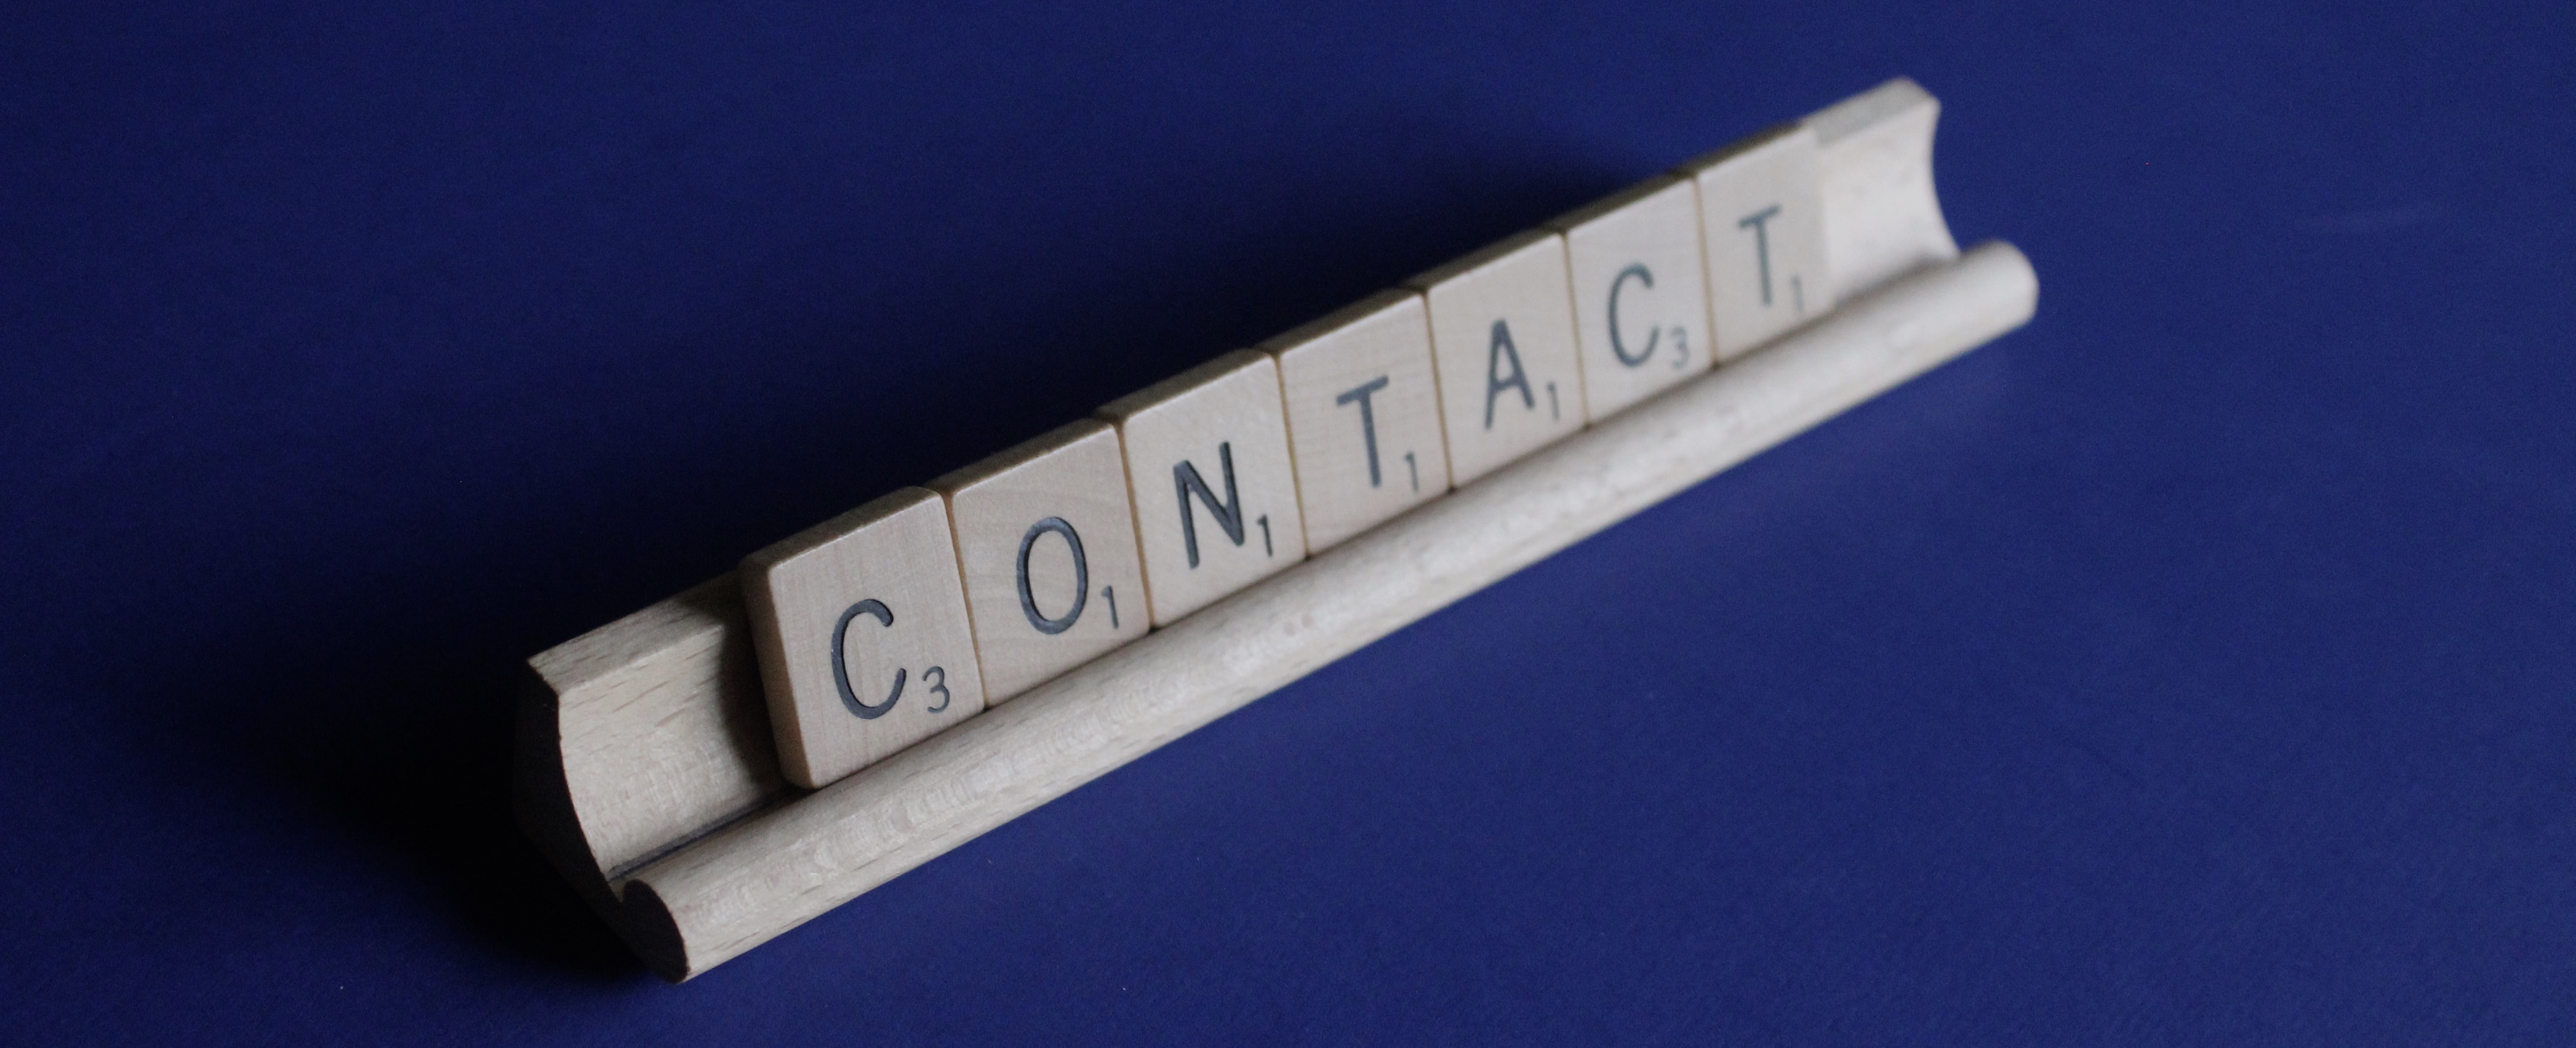
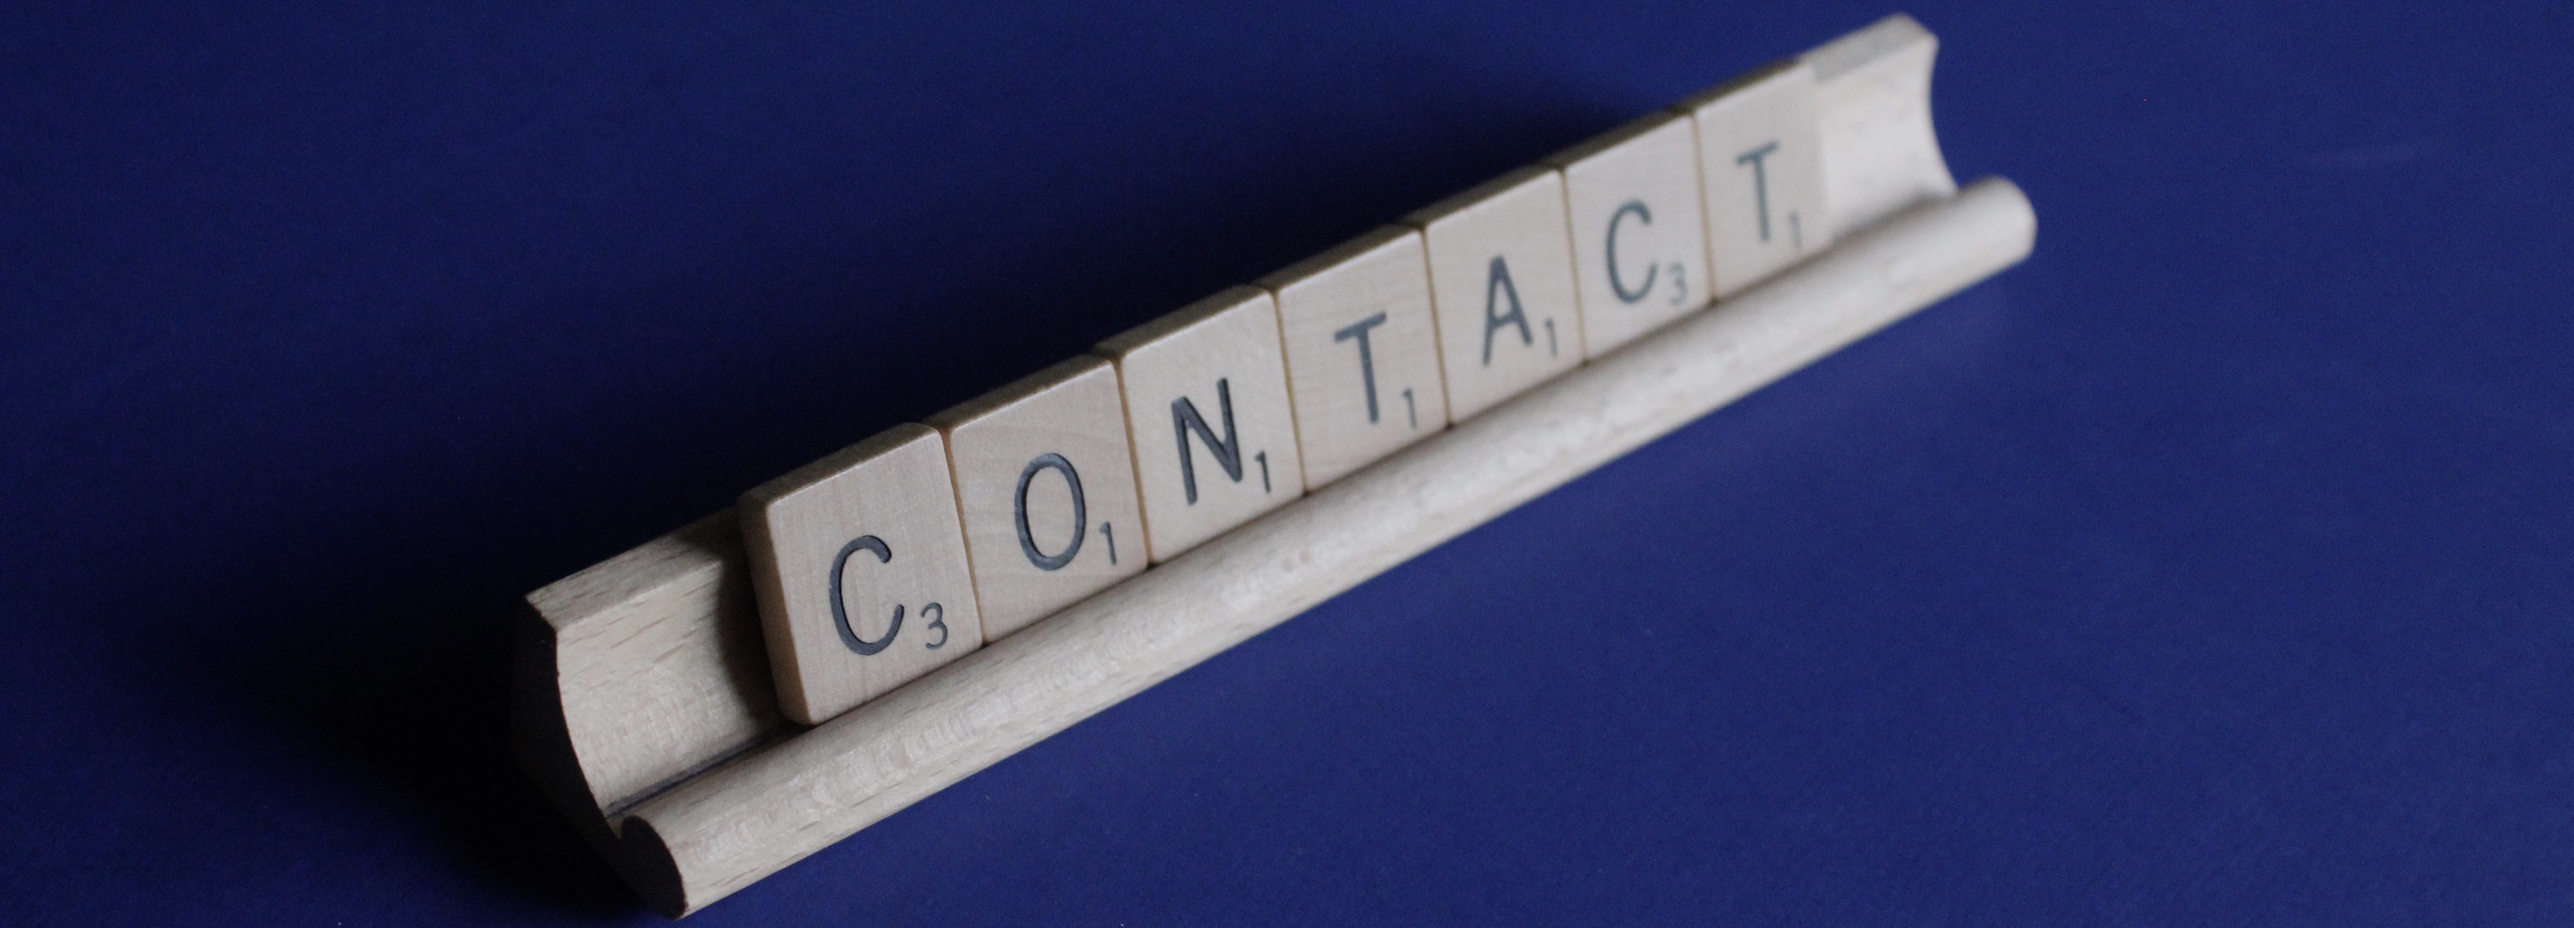
Added header image to the website

diff --git a/_pages/resume.md b/_pages/resume.md
@@ -2,6 +2,9 @@
 title: CV - Resume
 permalink: /resume_cv/
 author_profile: true
+header:
+  image: /assets/images/bench-accounting-skills.jpg
+
 ---
 <div>
 <h2>Click to get my cv / resume</h2>
@@ -30,3 +33,5 @@ author_profile: true
 <img src="../assets/logo/Github_Logo.svg"  alt="GitHub logo" style="width: 90px; height: auto;"/>
 
 </div>
+
+<a style="background-color:black;color:white;text-decoration:none;padding:4px 6px;font-family:-apple-system, BlinkMacSystemFont, &quot;San Francisco&quot;, &quot;Helvetica Neue&quot;, Helvetica, Ubuntu, Roboto, Noto, &quot;Segoe UI&quot;, Arial, sans-serif;font-size:12px;font-weight:bold;line-height:1.2;display:inline-block;border-radius:3px" href="https://unsplash.com/@benchaccounting?utm_medium=referral&amp;utm_campaign=photographer-credit&amp;utm_content=creditBadge" target="_blank" rel="noopener noreferrer" title="Download free do whatever you want high-resolution photos from Bench Accounting"><span style="display:inline-block;padding:2px 3px"><svg xmlns="http://www.w3.org/2000/svg" style="height:12px;width:auto;position:relative;vertical-align:middle;top:-2px;fill:white" viewBox="0 0 32 32"><title>unsplash-logo</title><path d="M10 9V0h12v9H10zm12 5h10v18H0V14h10v9h12v-9z"></path></svg></span><span style="display:inline-block;padding:2px 3px">Bench Accounting</span></a>

diff --git a/_pages/portfolio.md b/_pages/portfolio.md
@@ -3,6 +3,10 @@ title: Portfolio
 layout: collection
 permalink: /portfolio/
 collection: portfolio
+header:
+  image: /assets/images/kelly-sikkema-project.jpg
 entries_layout: grid
 classes: wide
 ---
+
+<a style="background-color:black;color:white;text-decoration:none;padding:4px 6px;font-family:-apple-system, BlinkMacSystemFont, &quot;San Francisco&quot;, &quot;Helvetica Neue&quot;, Helvetica, Ubuntu, Roboto, Noto, &quot;Segoe UI&quot;, Arial, sans-serif;font-size:12px;font-weight:bold;line-height:1.2;display:inline-block;border-radius:3px" href="https://unsplash.com/@kellysikkema?utm_medium=referral&amp;utm_campaign=photographer-credit&amp;utm_content=creditBadge" target="_blank" rel="noopener noreferrer" title="Download free do whatever you want high-resolution photos from Kelly Sikkema"><span style="display:inline-block;padding:2px 3px"><svg xmlns="http://www.w3.org/2000/svg" style="height:12px;width:auto;position:relative;vertical-align:middle;top:-2px;fill:white" viewBox="0 0 32 32"><title>unsplash-logo</title><path d="M10 9V0h12v9H10zm12 5h10v18H0V14h10v9h12v-9z"></path></svg></span><span style="display:inline-block;padding:2px 3px">Kelly Sikkema</span></a>

diff --git a/_pages/year-archive.md b/_pages/year-archive.md
@@ -3,4 +3,6 @@ title: "Blog"
 permalink: /posts/
 layout: posts
 author_profile: true
+header:
+  image: /assets/images/art-lasovsky-writing.jpg
 ---
